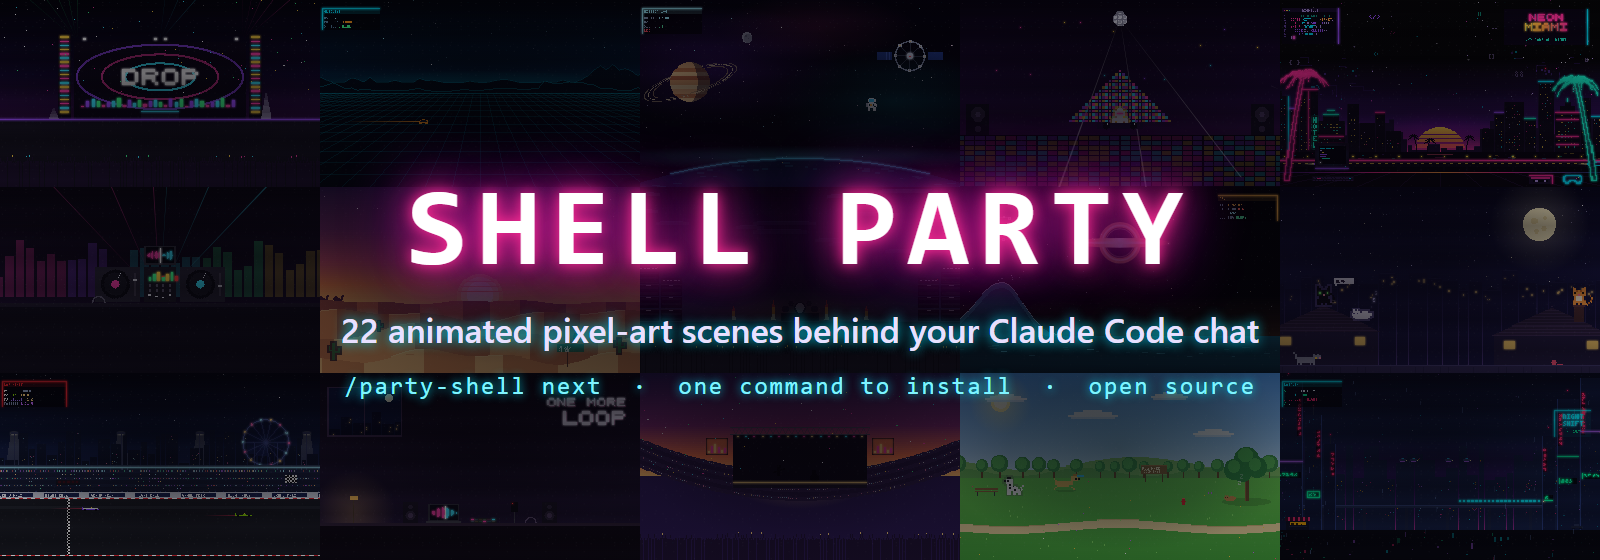
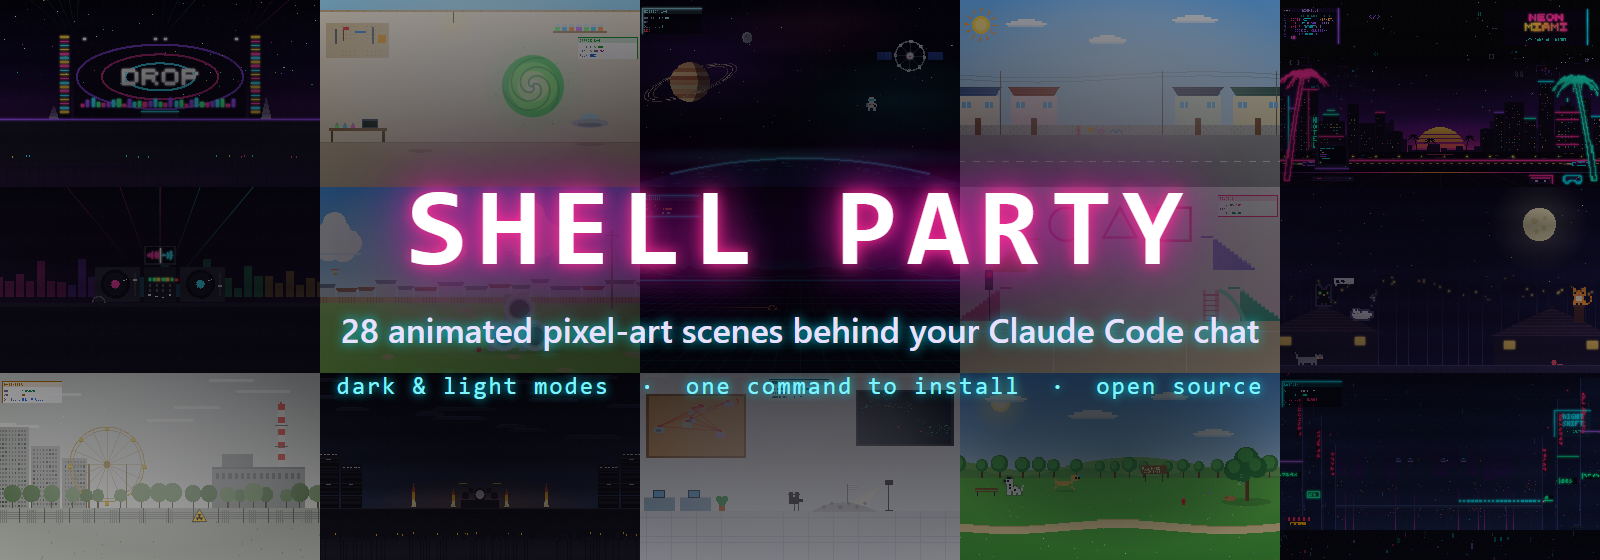
docs: document light mode, installer behaviour and uninstall; release 1.3.0

diff --git a/README.md b/README.md
@@ -1,12 +1,12 @@
 <div align="center">
 
-<img src="screenshots/banner.png" alt="Shell Party: 22 animated pixel-art scenes behind your Claude Code chat" width="100%">
+<img src="screenshots/banner.png" alt="Shell Party: 28 animated pixel-art scenes behind your Claude Code chat" width="100%">
 
 # Shell Party for Claude Code 🎉
 
-**Animated pixel-art worlds behind your chat. Neon text. Fireworks when Claude finishes a big task.**
+**Animated pixel-art worlds behind your chat, in dark and light mode. Fireworks when Claude finishes a big task.**
 
-[![Claude Code plugin](https://img.shields.io/badge/Claude%20Code-plugin-ff2d95?style=for-the-badge)](https://claude.com/claude-code) [![Scenes](https://img.shields.io/badge/scenes-22-00e5ff?style=for-the-badge)](#-scenes) [![Release](https://img.shields.io/badge/release-v1.2.0-3dff8a?style=for-the-badge)](https://github.com/gaurangg123/claudechatmod/releases) [![License: GPL-3.0](https://img.shields.io/badge/license-GPL--3.0-9b4dff?style=for-the-badge)](LICENSE) [![Install](https://img.shields.io/badge/install-one%20command-ffd23f?style=for-the-badge)](#-install-in-one-command)
+[![CI](https://github.com/gaurangg123/claudechatmod/actions/workflows/ci.yml/badge.svg)](https://github.com/gaurangg123/claudechatmod/actions/workflows/ci.yml) [![Claude Code plugin](https://img.shields.io/badge/Claude%20Code-plugin-ff2d95?style=for-the-badge)](https://claude.com/claude-code) [![Scenes](https://img.shields.io/badge/scenes-28-00e5ff?style=for-the-badge)](#-scenes) [![Release](https://img.shields.io/badge/release-v1.3.0-3dff8a?style=for-the-badge)](https://github.com/gaurangg123/claudechatmod/releases) [![License: GPL-3.0](https://img.shields.io/badge/license-GPL--3.0-9b4dff?style=for-the-badge)](LICENSE) [![Install](https://img.shields.io/badge/install-one%20command-ffd23f?style=for-the-badge)](#-install-in-one-command)
 
 [Install](#-install-in-one-command) • [Scenes](#-scenes) • [Commands](#-commands) • [Reactions](#-reactions) • [Where it works](#-where-it-works) • [Troubleshooting](#-troubleshooting) • [Make your own scene](#-make-your-own-scene)
 
@@ -18,13 +18,16 @@
 
 <img src="screenshots/demo.gif" alt="Shell Party demo: the chat over an animated neon city, then fireworks and a new scene" align="right" width="420">
 
-- **22 animated scenes** behind the conversation: festival stages, DJ booths, rock and metal
-  shows, a glowing grid world, neon cities, deserts, deep space, a night race, an AI lab, and cats
-  and dogs. Lasers sweep, decks spin, cars drive, rain falls.
+- **28 animated scenes** behind the conversation: festival stages, DJ booths, rock and metal
+  shows, a glowing grid world, neon cities, deserts, deep space, a night race, an AI lab, cats and
+  dogs, and a set of bright scenes for light mode. Lasers sweep, decks spin, cars drive, rain falls.
+- **Dark and light mode**: `/party-shell mode light` swaps to bright scenes with dark text and
+  frosted white glass; `/party-shell mode dark` brings the night back.
 - **A slideshow**: a new scene fades in every minute (or pick one and keep it).
 - **Reactions**: fireworks when Claude finishes a long task, a red alert when your tests fail.
 - **Neon text colors** that stay readable on every scene.
-- **A pixel skyline** above the prompt when you use Claude Code in a terminal.
+- **A pixel skyline** above the prompt when you use Claude Code in a terminal, and an animated
+  **Windows Terminal profile** that the Windows installer sets up for you.
 - **One `/party-shell` command** to change all of it.
 
 <br clear="right">
@@ -46,17 +49,23 @@ curl -fsSL https://raw.githubusercontent.com/gaurangg123/claudechatmod/main/inst
 ```
 
 Then **start a new Claude Code session**, or type `/reload-plugins` in an open one. That's it.
+Run the same command again any time to update; it's safe to repeat.
 
 <details>
 <summary><b>What does the installer do?</b></summary>
 
 1. Checks that `claude` and `git` are installed.
-2. Installs the plugin: `claude plugin install shell-party --marketplace gaurangg123/claudechatmod`.
-3. Sets `"theme": "custom:shell-party:shell-party"` in your Claude Code `settings.json`, after saving
-   a backup next to it (`settings.json.before-shell-party.bak`).
+2. Installs the plugin (or updates it, if it's already there):
+   `claude plugin install shell-party --marketplace gaurangg123/claudechatmod`.
+3. Sets `"theme": "custom:shell-party:shell-party"` in your Claude Code `settings.json`, keeping
+   every other setting.
+4. **Windows only:** if Windows Terminal is installed, adds a **Shell Party** color scheme and a
+   separate **Shell Party** profile with an animated background. Your other profiles aren't
+   touched. Set `SHELL_PARTY_NO_TERMINAL=1` before running it to skip this step.
 
-Nothing else on your computer changes. Read [install.ps1](install.ps1) or [install.sh](install.sh)
-before you run them.
+Every file it edits is backed up once, next to the file, as `*.before-shell-party.bak`. Nothing
+else on your computer changes. Read [install.ps1](install.ps1) or [install.sh](install.sh) before
+you run them. Both are tested on every change, on Windows (PowerShell 5.1 and 7), macOS and Linux.
 
 </details>
 
@@ -75,7 +84,23 @@ Then pick the theme with `/theme` → **Shell Party**.
 
 ## 🎨 Scenes
 
-A new scene fades in every minute. Jump to any of them with `/party-shell scene <name>`. All of the art is original, drawn from code in [dev/build-scene.mjs](dev/build-scene.mjs).
+A new scene fades in every minute. Dark mode (the default) rotates through the night scenes;
+`/party-shell mode light` rotates through the bright ones. Jump to any scene with
+`/party-shell scene <name>`, and the mode follows it. All of the art is original, drawn from code in
+[dev/build-scene.mjs](dev/build-scene.mjs).
+
+### ☀ Light mode
+
+| | |
+| :---: | :---: |
+| ![Portal Garage](screenshots/portal-garage.png) | ![Shadow Office](screenshots/shadow-office.png) |
+| **Portal Garage** · `portal-garage`<br>A sunny garage lab, a swirling green portal, a saucer | **Shadow Office** · `shadow-office`<br>A conspiracy board, a TOP SECRET screen, a moon-landing set |
+| ![Crayon Town](screenshots/crayon-town.png) | ![Sky Lot](screenshots/sky-lot.png) |
+| **Crayon Town** · `crayon-town`<br>A sunny street, crayon doodles, a kindergarten bus | **Sky Lot** · `sky-lot`<br>Concrete pipes in a vacant lot, propeller toys flying |
+| ![Shape Games](screenshots/shape-games.png) | ![Exclusion Zone](screenshots/exclusion-zone.png) |
+| **Shape Games** · `shape-games`<br>Pastel stair mazes, shapes, a red light and a green light | **Exclusion Zone** · `exclusion-zone`<br>An abandoned Ferris wheel, a reactor stack, a dosimeter |
+
+Blocklands Day and Dog Park (below) are light-mode scenes too.
 
 ### 🎧 Music and parties
 
@@ -147,6 +172,7 @@ Type these in any Claude Code chat:
 | --- | --- |
 | `/party-shell` | Show what's on and the list of commands |
 | `/party-shell next` | Show the next scene |
+| `/party-shell mode light` \| `dark` | Bright scenes with dark text, or night scenes with light text |
 | `/party-shell scene <name>` | Pick a scene, for example `/party-shell scene dog-park` |
 | `/party-shell slideshow on` \| `off` | Change scenes on a timer, or keep the current one |
 | `/party-shell every <minutes>` | How long each scene stays, 1 to 240 minutes |
@@ -173,7 +199,8 @@ Turn them off with `/party-shell reactions off`.
 | Where | What you get |
 | --- | --- |
 | **Claude desktop app** (Code tab) | ✅ Animated scenes, slideshow, reactions, neon text colors |
-| **Terminal** (PowerShell, Windows Terminal, macOS Terminal, iTerm…) | ✅ Neon colors and the pixel skyline above the prompt |
+| **Windows Terminal** | ✅ A Shell Party profile with an animated background, neon colors and the skyline |
+| **Any terminal** (PowerShell, macOS Terminal, iTerm2, Linux) | ✅ Neon colors and the pixel skyline above the prompt |
 | **Cloud sessions** (claude.ai/code) | ⚠ Only with the project settings below |
 | **Other AI tools** (Codex, Cursor…) | ❌ It's a Claude Code plugin, so it runs only in Claude Code |
 
@@ -202,6 +229,23 @@ project's `.claude/settings.json` and commit it:
 The scene is animated, and scrolling over moving art is heavy for some laptops. Type
 `/party-shell motion off`: the scene stays but stops moving, and scrolling is smooth again.
 `/party-shell motion on` brings the animation back.
+
+</details>
+
+<details>
+<summary><b>The text is hard to read on a bright scene</b></summary>
+
+Bright scenes belong to light mode, which uses dark text. Type `/party-shell mode light`, or
+`/party-shell mode dark` to go back to the night scenes.
+
+</details>
+
+<details>
+<summary><b>Where's the animated background in my terminal?</b></summary>
+
+On Windows, open the **Shell Party** profile from Windows Terminal's tab menu (the installer adds
+it), then run `claude`. Other terminals (macOS Terminal, iTerm2, the old PowerShell console) can't
+play an animated background; they get the colors and the skyline above the prompt.
 
 </details>
 
@@ -262,28 +306,37 @@ hooks/
   band.ts           the pixel skyline above the terminal prompt
   scene.ts          the list of scenes (generated)
   scenes/           one generated module per scene
-themes/             terminal colors
+themes/             Claude Code terminal colors
+terminal/           the animated Windows Terminal background
 types/              the plugin's state types
 dev/                the scene builder (build-scene.mjs) and the tests
 screenshots/        the pictures and the demo in this README
 install.ps1         one-line installer for Windows
 install.sh          one-line installer for macOS and Linux
+.github/workflows/  CI on Windows, macOS and Linux, and tagged releases
 ```
 
 </details>
 
 ## 🗑 Uninstall
 
-```bash
-claude plugin uninstall shell-party@claudechatmod
+**Windows** (PowerShell): removes the plugin, the Windows Terminal profile and the background, and
+puts your previous theme back.
+
+```powershell
+& ([scriptblock]::Create((irm https://raw.githubusercontent.com/gaurangg123/claudechatmod/main/install.ps1))) -Uninstall
 ```
 
-Then pick another theme with `/theme`.
+**macOS / Linux**:
+
+```bash
+curl -fsSL https://raw.githubusercontent.com/gaurangg123/claudechatmod/main/install.sh | bash -s -- --uninstall
+```
 
 ## 📄 License
 
 [GPL-3.0](LICENSE). All scenes are original pixel art made for this project, inspired by moods
 and genres; none uses a band's, film's or team's name, logo or characters.
 
-<sub>Shell Party was called Neon Miami before version 1.2.0. If you installed it under that name, run
-`claude plugin uninstall neon-miami@claudechatmod`, then install again with the command above.</sub>
+<sub>Shell Party was called Neon Miami before version 1.2.0. The installer removes the old
+`neon-miami` plugin for you.</sub>
